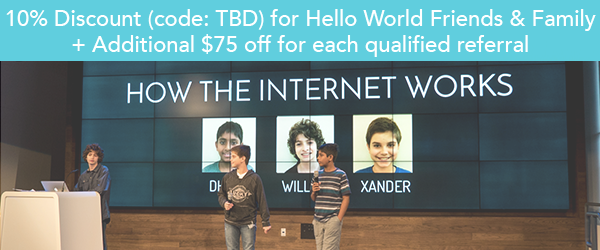
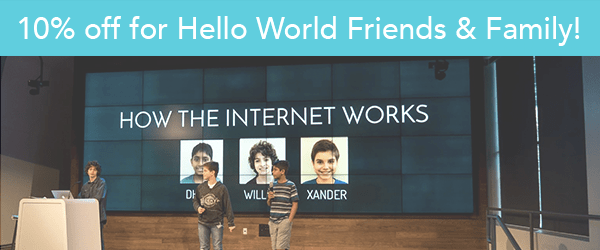
Image upload and minification

diff --git a/index.html b/index.html
@@ -355,7 +355,7 @@
                                                 <tr>
                                                     <td align="center" style="border-collapse: collapse;">
                                                         <a href="http://www.helloworldstudio.org/summer-programs" target="_blank" style="transition: all .25s;">
-                                                            <img align="none" height="70" src="./assets/logo.png" style="width: 200px;height: 94px;margin: 0px;border: none;outline: none;display: block;transition: all .25s;"
+                                                            <img align="none" height="70" src="https://gallery.mailchimp.com/2acb3ef98d6d51c174faed604/images/e3f33b8f-03d1-4ed2-a76e-e1c2a743cc02.png" style="width: 200px;height: 94px;margin: 0px;border: none;outline: none;display: block;transition: all .25s;"
                                                                 width="200"></a>
                                                     </td>
                                                 </tr>
@@ -379,31 +379,31 @@
                                         <td align="center" bgcolor="#ffffff" style="border-collapse: collapse;">
                                             <table border="0" cellspacing="0" cellpadding="0">
                                                 <tr>
-                                                    <td class="smallspacer" style="border-collapse: collapse;height: 10px;font-size: 10px;line-height: 10px;"><img src="https://gallery.mailchimp.com/ec23b4a39af05919d6bad0453/images/8e663c93-d4c4-4121-95e7-73dcdcc67e02.gif" alt="" width="1" height="1" style="border: none;outline: none;display: block;"></td>
+                                                    <td class="smallspacer" style="border-collapse: collapse;height: 10px;font-size: 10px;line-height: 10px;"><img src="https://gallery.mailchimp.com/2acb3ef98d6d51c174faed604/images/cbc67d49-ec0b-4efa-a0a9-0f20fbf40b3a.gif" alt="" width="1" height="1" style="border: none;outline: none;display: block;"></td>
                                                 </tr>
                                             </table>
                                             <table border="0" cellspacing="0" cellpadding="0">
                                                 <tr>
-                                                    <td class="smallspacer" style="border-collapse: collapse;height: 10px;font-size: 10px;line-height: 10px;"><img src="https://gallery.mailchimp.com/ec23b4a39af05919d6bad0453/images/8e663c93-d4c4-4121-95e7-73dcdcc67e02.gif" alt="" width="1" height="1" style="border: none;outline: none;display: block;"></td>
+                                                    <td class="smallspacer" style="border-collapse: collapse;height: 10px;font-size: 10px;line-height: 10px;"><img src="https://gallery.mailchimp.com/2acb3ef98d6d51c174faed604/images/cbc67d49-ec0b-4efa-a0a9-0f20fbf40b3a.gif" alt="" width="1" height="1" style="border: none;outline: none;display: block;"></td>
                                                 </tr>
                                             </table>
                                             <table width="100%" border="0" cellpadding="0" cellspacing="0">
                                                 <tr>
                                                     <td align="center" class="fleximage" style="border-collapse: collapse;">
                                                         <a href="http://www.helloworldstudio.org/summer-programs" target="_blank" style="transition: all .25s;">
-                                                            <img align="none" height="250" src="./assets/banner.png" style="width: 600px;height: 250px;margin: 0px;border: none;outline: none;display: block;transition: all .25s;"
+                                                            <img align="none" height="250" src="https://gallery.mailchimp.com/2acb3ef98d6d51c174faed604/images/d2196a83-434b-4860-bda3-deab6b148833.png" style="width: 600px;height: 250px;margin: 0px;border: none;outline: none;display: block;transition: all .25s;"
                                                                 width="600"></a>
                                                     </td>
                                                 </tr>
                                             </table>
                                             <table border="0" cellspacing="0" cellpadding="0">
                                                 <tr>
-                                                    <td class="smallspacer" style="border-collapse: collapse;height: 10px;font-size: 10px;line-height: 10px;"><img src="https://gallery.mailchimp.com/ec23b4a39af05919d6bad0453/images/8e663c93-d4c4-4121-95e7-73dcdcc67e02.gif" alt="" width="1" height="1" style="border: none;outline: none;display: block;"></td>
+                                                    <td class="smallspacer" style="border-collapse: collapse;height: 10px;font-size: 10px;line-height: 10px;"><img src="https://gallery.mailchimp.com/2acb3ef98d6d51c174faed604/images/cbc67d49-ec0b-4efa-a0a9-0f20fbf40b3a.gif" alt="" width="1" height="1" style="border: none;outline: none;display: block;"></td>
                                                 </tr>
                                             </table>
                                             <table border="0" cellspacing="0" cellpadding="0">
                                                 <tr>
-                                                    <td class="smallspacer" style="border-collapse: collapse;height: 10px;font-size: 10px;line-height: 10px;"><img src="https://gallery.mailchimp.com/ec23b4a39af05919d6bad0453/images/8e663c93-d4c4-4121-95e7-73dcdcc67e02.gif" alt="" width="1" height="1" style="border: none;outline: none;display: block;"></td>
+                                                    <td class="smallspacer" style="border-collapse: collapse;height: 10px;font-size: 10px;line-height: 10px;"><img src="https://gallery.mailchimp.com/2acb3ef98d6d51c174faed604/images/cbc67d49-ec0b-4efa-a0a9-0f20fbf40b3a.gif" alt="" width="1" height="1" style="border: none;outline: none;display: block;"></td>
                                                 </tr>
                                             </table>
                                         </td>
@@ -418,18 +418,18 @@
                                                         <table width="100%" border="0" cellpadding="0" cellspacing="0">
                                                             <tr>
                                                                 <td align="center" class="body" style="border-collapse: collapse;color: #636363;font-family: Avenir, sans-serif;font-size: 15px;line-height: 150%;">
-                                                                  <span class="h2" style="color: #444444;font-family: Avenir, sans-serif;line-height: 130%;font-size: 18px;font-weight: normal;text-decoration: none;"><strong>Save 10% (code: TBD) by March 20th<br />Additional $75 off for each qualified referral</strong></span>
+                                                                  <span class="h2" style="color: #444444;font-family: Avenir, sans-serif;line-height: 130%;font-size: 18px;font-weight: normal;text-decoration: none;"><strong>Save 10% with code HWFF2017 by March 20th<br />and recieve an additional $75 off for each qualified referral</strong></span>
                                                                 </td>
                                                             </tr>
                                                         </table>
                                                         <table border="0" cellspacing="0" cellpadding="0">
                                                             <tr>
-                                                                <td class="smallspacer" style="border-collapse: collapse;height: 10px;font-size: 10px;line-height: 10px;"><img src="https://gallery.mailchimp.com/ec23b4a39af05919d6bad0453/images/8e663c93-d4c4-4121-95e7-73dcdcc67e02.gif" alt="" width="1" height="1" style="border: none;outline: none;display: block;"></td>
+                                                                <td class="smallspacer" style="border-collapse: collapse;height: 10px;font-size: 10px;line-height: 10px;"><img src="https://gallery.mailchimp.com/2acb3ef98d6d51c174faed604/images/cbc67d49-ec0b-4efa-a0a9-0f20fbf40b3a.gif" alt="" width="1" height="1" style="border: none;outline: none;display: block;"></td>
                                                             </tr>
                                                         </table>
                                                         <table border="0" cellspacing="0" cellpadding="0">
                                                             <tr>
-                                                                <td class="smallspacer" style="border-collapse: collapse;height: 10px;font-size: 10px;line-height: 10px;"><img src="https://gallery.mailchimp.com/ec23b4a39af05919d6bad0453/images/8e663c93-d4c4-4121-95e7-73dcdcc67e02.gif" alt="" width="1" height="1" style="border: none;outline: none;display: block;"></td>
+                                                                <td class="smallspacer" style="border-collapse: collapse;height: 10px;font-size: 10px;line-height: 10px;"><img src="https://gallery.mailchimp.com/2acb3ef98d6d51c174faed604/images/cbc67d49-ec0b-4efa-a0a9-0f20fbf40b3a.gif" alt="" width="1" height="1" style="border: none;outline: none;display: block;"></td>
                                                             </tr>
                                                         </table>
                                                         <table border="0" cellpadding="10" cellspacing="0" class="button" style="background: #FFAD62;">
@@ -447,7 +447,7 @@
                                                         </table>
                                                         <table border="0" cellspacing="0" cellpadding="0">
                                                             <tr>
-                                                                <td class="smallspacer" style="border-collapse: collapse;height: 10px;font-size: 10px;line-height: 10px;"><img src="https://gallery.mailchimp.com/ec23b4a39af05919d6bad0453/images/8e663c93-d4c4-4121-95e7-73dcdcc67e02.gif" alt="" width="1" height="1" style="border: none;outline: none;display: block;"></td>
+                                                                <td class="smallspacer" style="border-collapse: collapse;height: 10px;font-size: 10px;line-height: 10px;"><img src="https://gallery.mailchimp.com/2acb3ef98d6d51c174faed604/images/cbc67d49-ec0b-4efa-a0a9-0f20fbf40b3a.gif" alt="" width="1" height="1" style="border: none;outline: none;display: block;"></td>
                                                             </tr>
                                                         </table>
                                                         <table width="100%" border="0" cellpadding="0" cellspacing="0">
@@ -460,12 +460,12 @@ Sessions take place at innovation tech hubs across Austin, including Google, Cap
                                                         </table>
                                                         <table border="0" cellspacing="0" cellpadding="0">
                                                             <tr>
-                                                                <td class="smallspacer" style="border-collapse: collapse;height: 10px;font-size: 10px;line-height: 10px;"><img src="https://gallery.mailchimp.com/ec23b4a39af05919d6bad0453/images/8e663c93-d4c4-4121-95e7-73dcdcc67e02.gif" alt="" width="1" height="1" style="border: none;outline: none;display: block;"></td>
+                                                                <td class="smallspacer" style="border-collapse: collapse;height: 10px;font-size: 10px;line-height: 10px;"><img src="https://gallery.mailchimp.com/2acb3ef98d6d51c174faed604/images/cbc67d49-ec0b-4efa-a0a9-0f20fbf40b3a.gif" alt="" width="1" height="1" style="border: none;outline: none;display: block;"></td>
                                                             </tr>
                                                         </table>
                                                         <table border="0" cellspacing="0" cellpadding="0">
                                                             <tr>
-                                                                <td class="smallspacer" style="border-collapse: collapse;height: 10px;font-size: 10px;line-height: 10px;"><img src="https://gallery.mailchimp.com/ec23b4a39af05919d6bad0453/images/8e663c93-d4c4-4121-95e7-73dcdcc67e02.gif" alt="" width="1" height="1" style="border: none;outline: none;display: block;"></td>
+                                                                <td class="smallspacer" style="border-collapse: collapse;height: 10px;font-size: 10px;line-height: 10px;"><img src="https://gallery.mailchimp.com/2acb3ef98d6d51c174faed604/images/cbc67d49-ec0b-4efa-a0a9-0f20fbf40b3a.gif" alt="" width="1" height="1" style="border: none;outline: none;display: block;"></td>
                                                             </tr>
                                                         </table>
                                                     </td>
@@ -479,7 +479,7 @@ Sessions take place at innovation tech hubs across Austin, including Google, Cap
                                         <td align="center" bgcolor="#ffffff" style="border-collapse: collapse;">
                                             <table border="0" cellspacing="0" cellpadding="0">
                                                 <tr>
-                                                    <td class="smallspacer" style="border-collapse: collapse;height: 10px;font-size: 10px;line-height: 10px;"><img src="https://gallery.mailchimp.com/ec23b4a39af05919d6bad0453/images/8e663c93-d4c4-4121-95e7-73dcdcc67e02.gif" alt="" width="1" height="1" style="border: none;outline: none;display: block;"></td>
+                                                    <td class="smallspacer" style="border-collapse: collapse;height: 10px;font-size: 10px;line-height: 10px;"><img src="https://gallery.mailchimp.com/2acb3ef98d6d51c174faed604/images/cbc67d49-ec0b-4efa-a0a9-0f20fbf40b3a.gif" alt="" width="1" height="1" style="border: none;outline: none;display: block;"></td>
                                                 </tr>
                                             </table>
                                         </td>
@@ -509,13 +509,16 @@ Sessions take place at innovation tech hubs across Austin, including Google, Cap
                                                         <table border="0" cellspacing="0" cellpadding="0">
                                                             <tr>
                                                                 <td align="center" style="border-collapse: collapse;">
-                                                                    <a href="https://www.facebook.com/helloworldstudio" style="transition: all .25s;"><img src="https://gallery.mailchimp.com/ec23b4a39af05919d6bad0453/images/e1322b55-a0f4-4246-b530-3a0790a4c361.png" alt="" width="30" style="border: none;outline: none;display: block;transition: all .25s;"></a>
+                                                                    <a href="https://www.facebook.com/helloworldstudio" style="transition: all .25s;"><img src="https://gallery.mailchimp.com/2acb3ef98d6d51c174faed604/images/48aa7aa3-c3a2-40d4-b6d3-04ad64f66346.png" alt="" width="30" style="border: none;outline: none;display: block;transition: all .25s;"></a>
                                                                 </td>
                                                                 <td align="center" style="border-collapse: collapse;">
-                                                                    <a href="https://twitter.com/hwtechstudio" style="transition: all .25s;"><img src="https://gallery.mailchimp.com/ec23b4a39af05919d6bad0453/images/94d22bf5-cc89-43f6-a4d8-8567c4e81d9d.png" alt="" width="30" style="border: none;outline: none;display: block;transition: all .25s;"></a>
+                                                                    <a href="https://twitter.com/hwtechstudio" style="transition: all .25s;"><img src="https://gallery.mailchimp.com/2acb3ef98d6d51c174faed604/images/f5dc7ee7-012e-4c41-8a63-4e98bfa202ba.png" alt="" width="30" style="border: none;outline: none;display: block;transition: all .25s;"></a>
                                                                 </td>
                                                                 <td align="center" style="border-collapse: collapse;">
-                                                                    <a href="https://www.instagram.com/helloworldstudio/" style="transition: all .25s;"><img src="https://gallery.mailchimp.com/ec23b4a39af05919d6bad0453/images/6b969394-7c4c-45c1-9079-7e98dddcbbb2.png" alt="" width="30" style="border: none;outline: none;display: block;transition: all .25s;"></a>
+                                                                    <a href="https://www.instagram.com/helloworldstudio" style="transition: all .25s;"><img src="https://gallery.mailchimp.com/2acb3ef98d6d51c174faed604/images/71642427-9a48-43d2-88eb-e146dff0fc0d.png" alt="" width="30" style="border: none;outline: none;display: block;transition: all .25s;"></a>
+                                                                </td>
+                                                                <td align="center" style="border-collapse: collapse;">
+                                                                    <a href="http://www.helloworldstudio.org/photo-gallery" style="transition: all .25s;"><img src="https://gallery.mailchimp.com/2acb3ef98d6d51c174faed604/images/25fc14cc-4573-4471-b160-b7585ba2d0cf.png" alt="" width="30" style="border: none;outline: none;display: block;transition: all .25s;"></a>
                                                                 </td>
                                                             </tr>
                                                         </table>
